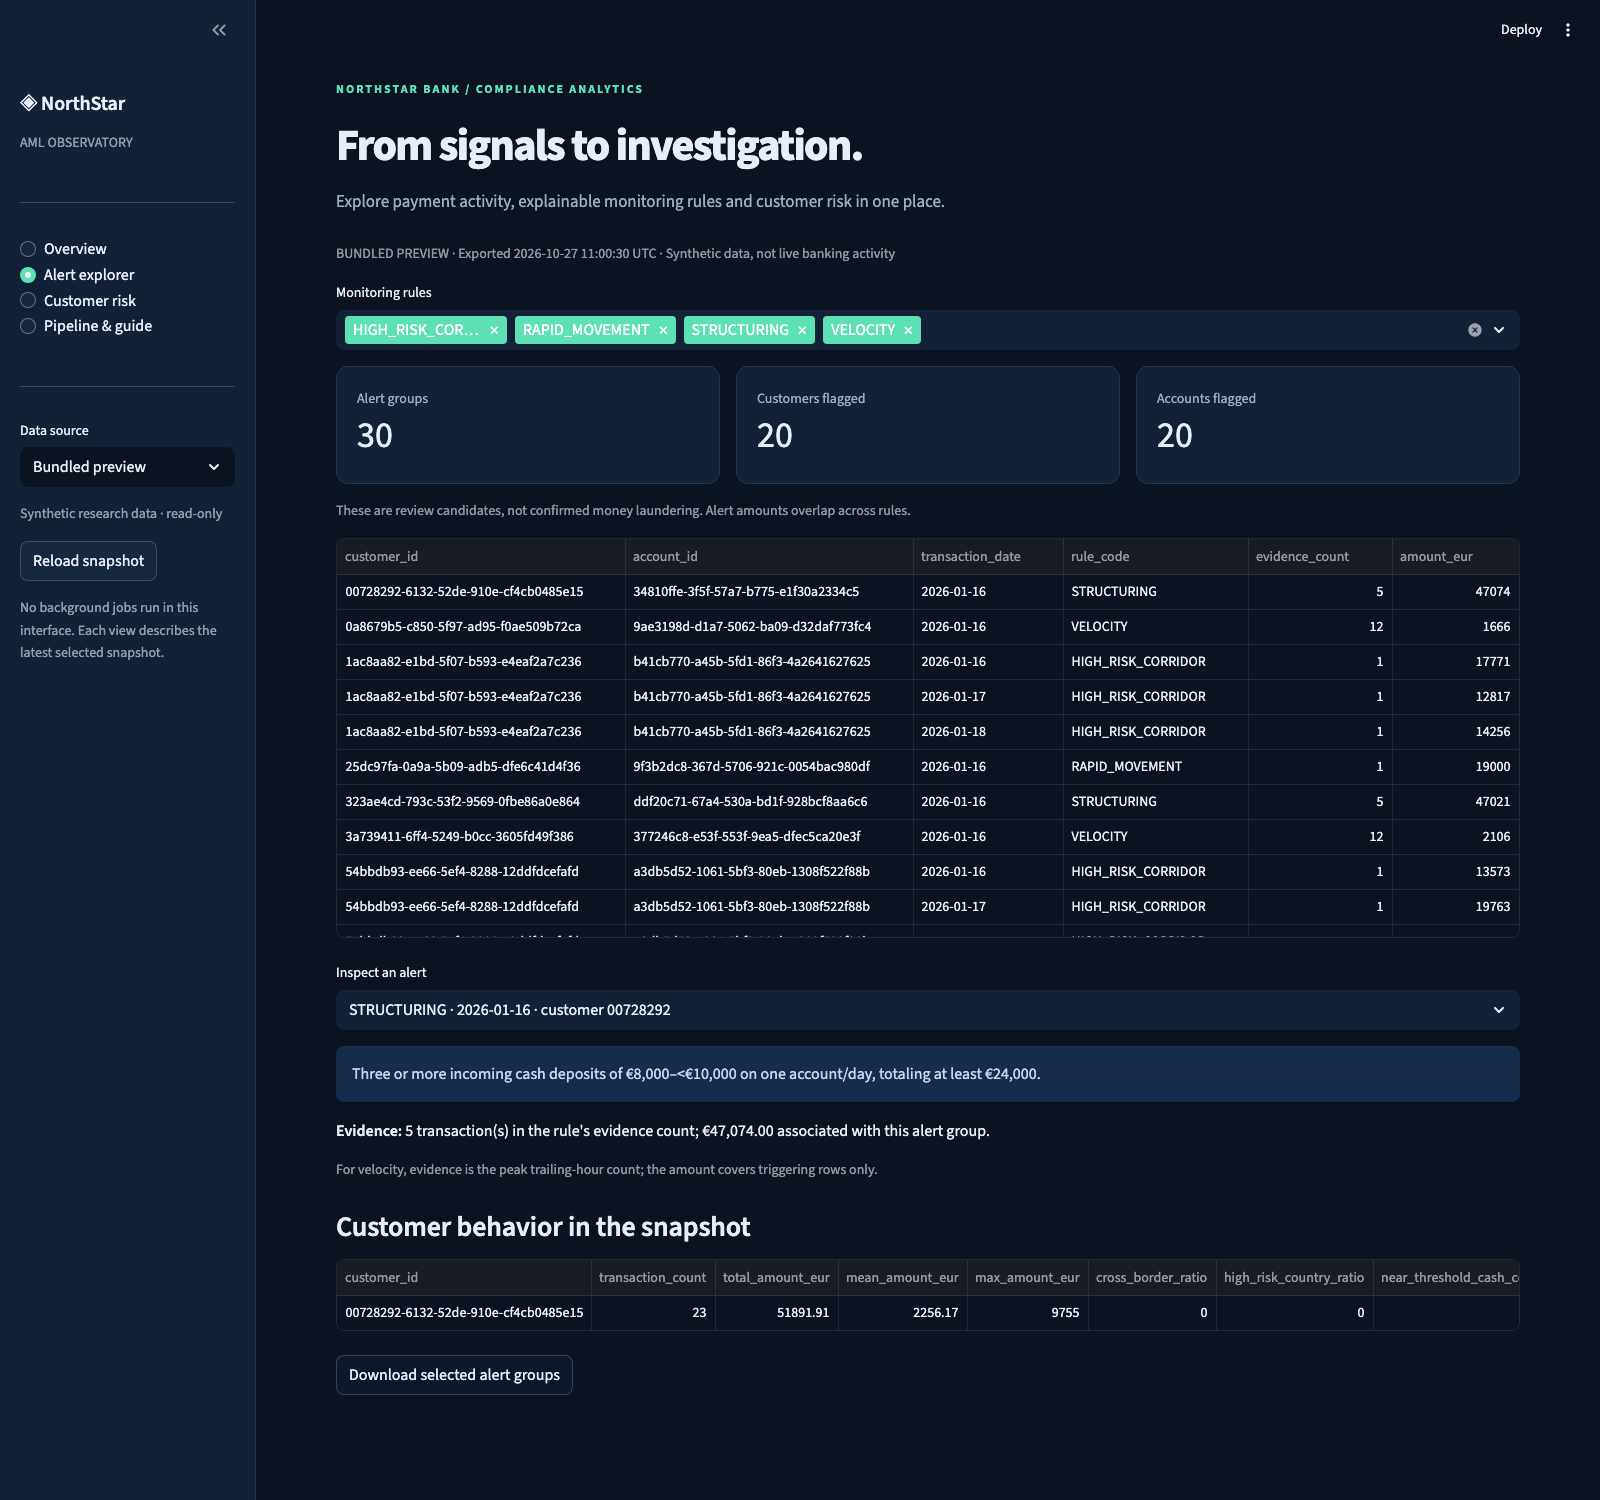
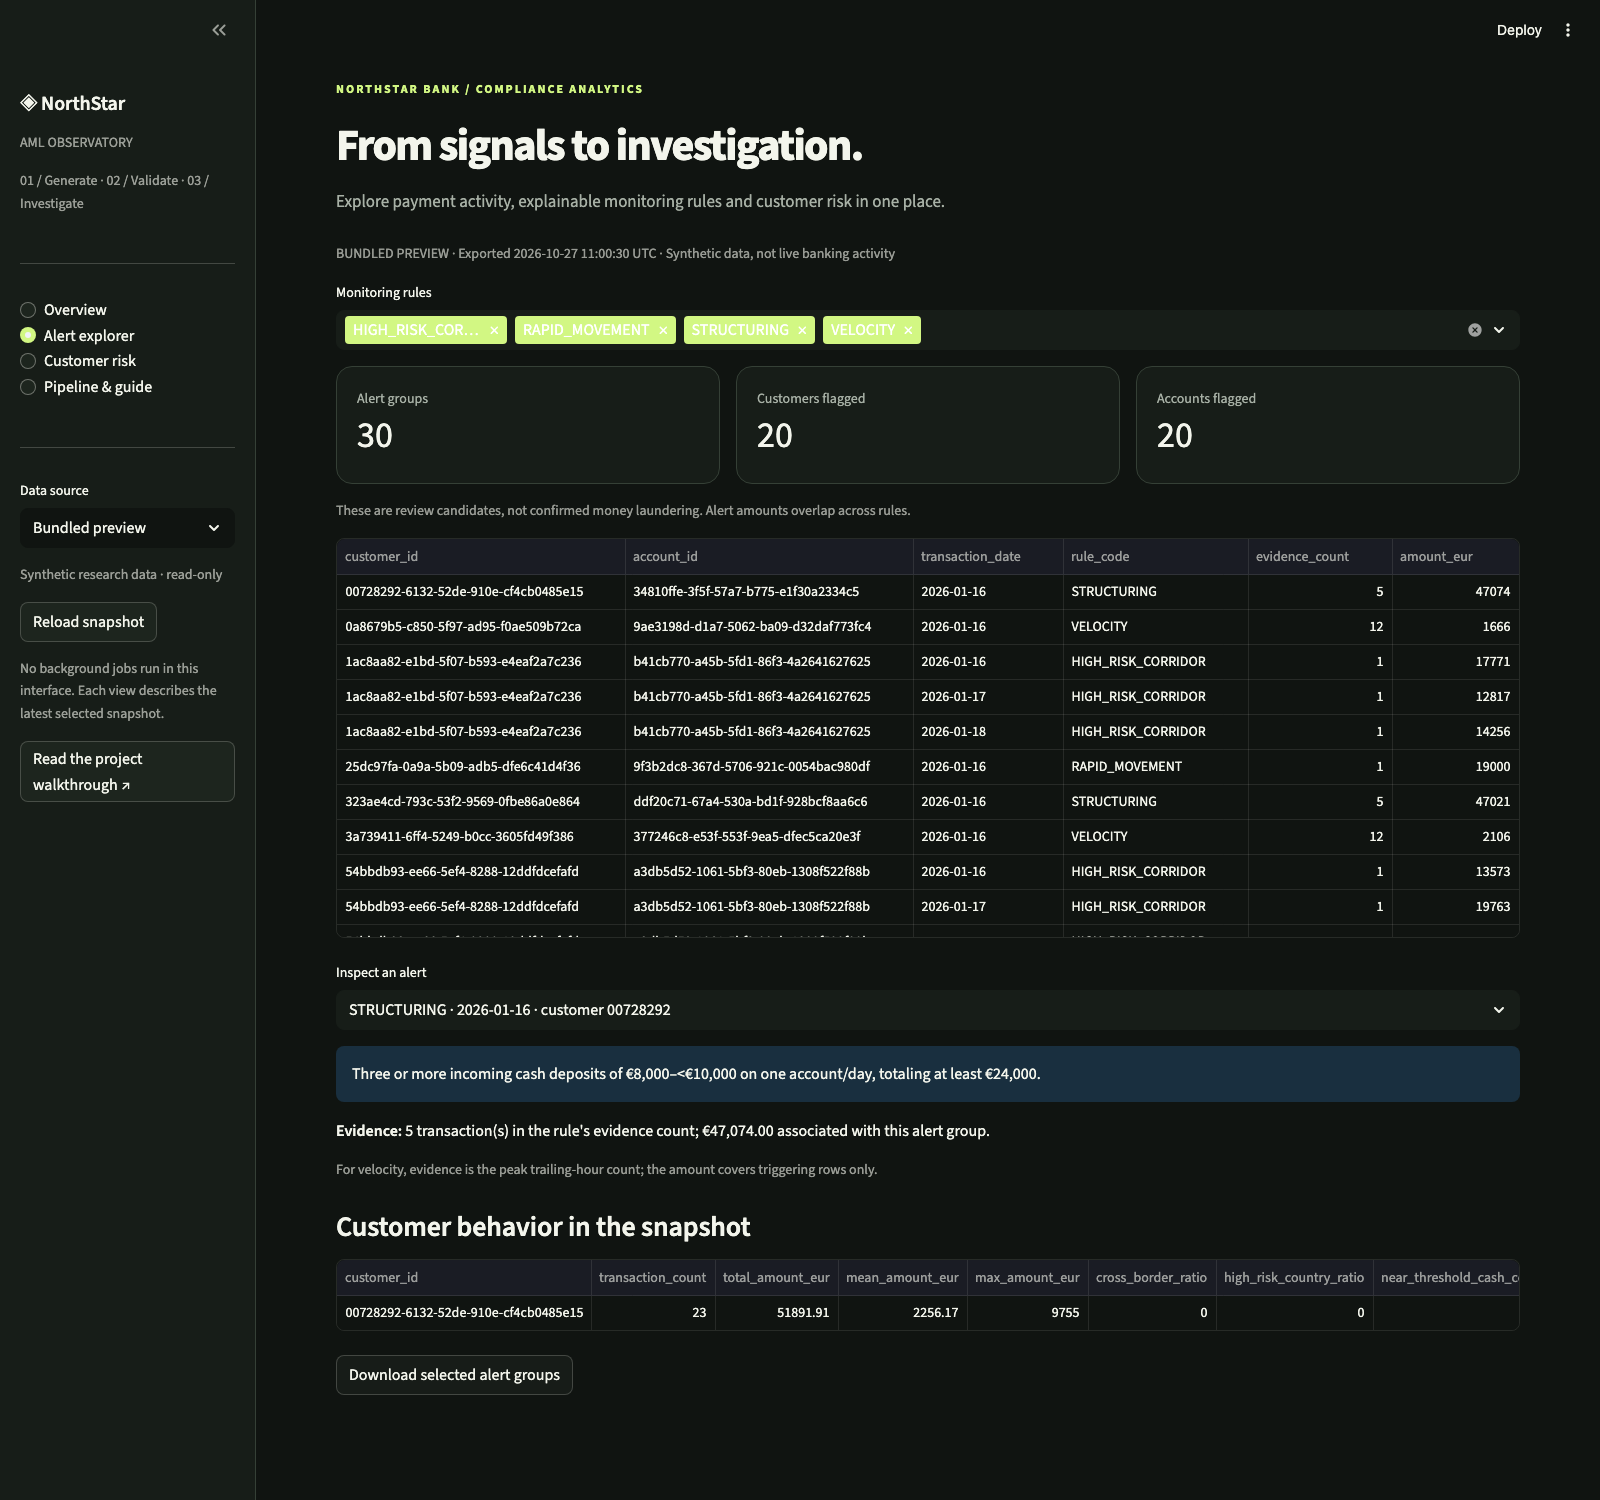
Match AML observatory to portfolio and refresh verified screenshots

diff --git a/dashboard_app.py b/dashboard_app.py
@@ -7,20 +7,24 @@ from aml.dashboard_data import EXPORT, activity_metrics, filter_activity, load_s
 
 st.set_page_config(page_title='NorthStar | AML Observatory', page_icon='◈', layout='wide')
 st.markdown('''<style>
+html, body, [data-testid="stApp"] {font-family:Inter,-apple-system,BlinkMacSystemFont,"Segoe UI",sans-serif}
 .block-container {padding-top:4rem;max-width:1440px}
-[data-testid="stMetric"] {background:#132136;border:1px solid #26364d;padding:20px;border-radius:12px}
-[data-testid="stMetricLabel"] {color:#9eafc4;font-size:13px}
+[data-testid="stMetric"] {background:#171d18;border:1px solid #354036;padding:20px;border-radius:16px}
+[data-testid="stMetricLabel"] {color:#a7b0a5;font-size:13px}
 h1 {letter-spacing:-1.6px;font-weight:750!important}
 h3 {letter-spacing:-.4px}
-.eyebrow {color:#5ee0b5;font-size:12px;letter-spacing:2px;font-weight:700}
-.hero-copy {color:#9eafc4;font-size:17px;max-width:840px;margin-bottom:28px}
-[data-testid="stSidebar"] {border-right:1px solid #26364d}
-[data-testid="stAlert"] p {color:#c2d7ef}
+button:focus-visible, a:focus-visible {outline:3px solid #d2f783!important;outline-offset:4px}
+@media(max-width:640px) {h1 {font-size:2rem!important;letter-spacing:-1px}.block-container {padding-left:1rem;padding-right:1rem}}
+.eyebrow {color:#d2f783;font-size:12px;letter-spacing:2px;font-weight:700}
+.hero-copy {color:#a7b0a5;font-size:17px;max-width:840px;margin-bottom:28px}
+[data-testid="stSidebar"] {border-right:1px solid #354036}
+[data-testid="stAlert"] p {color:#f3f5ec}
 </style>''', unsafe_allow_html=True)
 
 with st.sidebar:
     st.markdown('## ◈ NorthStar')
     st.caption('AML OBSERVATORY')
+    st.caption('01 / Generate · 02 / Validate · 03 / Investigate')
     st.divider()
     page = st.radio('Explore', ['Overview', 'Alert explorer', 'Customer risk', 'Pipeline & guide'], label_visibility='collapsed')
     st.divider()
@@ -28,6 +32,7 @@ with st.sidebar:
     st.caption('Synthetic research data · read-only')
     st.button('Reload snapshot', help='Rereads files; it does not run the pipeline or connect to a database.')
     st.caption('No background jobs run in this interface. Each view describes the latest selected snapshot.')
+    st.link_button('Read the project walkthrough ↗', 'https://nitinsinghdm.github.io/aml.html')
 
 try:
     snapshot = load_snapshot(mode)
@@ -45,11 +50,11 @@ st.title({'Overview':'Follow the money. Understand the signals.', 'Alert explore
 st.markdown('<div class="hero-copy">Explore payment activity, explainable monitoring rules and customer risk in one place.</div>', unsafe_allow_html=True)
 st.caption(f"{mode.upper()}  ·  Exported {snapshot['manifest']['exported_at'][:19].replace('T', ' ')} UTC  ·  Synthetic data, not live banking activity")
 
-COLORS = ['#5ee0b5','#6ba5ff','#f7c66b','#e58da9']
+COLORS = ['#d2f783','#6ba5ff','#f7c66b','#e58da9']
 
 def chart(fig):
     fig.update_layout(template='plotly_dark', paper_bgcolor='rgba(0,0,0,0)', plot_bgcolor='rgba(0,0,0,0)',
-        font=dict(color='#b5c5d8'), margin=dict(l=12,r=12,t=16,b=12), height=300,
+        font=dict(color='#a7b0a5'), margin=dict(l=12,r=12,t=16,b=12), height=300,
         legend_title_text='', xaxis_title=None, yaxis_title=None)
     st.plotly_chart(fig, use_container_width=True, config={'displayModeBar':False})
 

diff --git a/scripts/capture_dashboard.py b/scripts/capture_dashboard.py
@@ -1,12 +1,13 @@
 """Capture the real localhost dashboard. Start Streamlit before running this script."""
 from pathlib import Path
+import os
 from playwright.sync_api import sync_playwright
 
 root = Path(__file__).resolve().parents[1]
 with sync_playwright() as p:
     browser = p.chromium.launch()
     page = browser.new_page(viewport={'width':1600,'height':1500},device_scale_factor=1)
-    page.goto('http://127.0.0.1:8501',wait_until='networkidle')
+    page.goto(os.environ.get('AML_DASHBOARD_URL', 'http://127.0.0.1:8501'),wait_until='networkidle')
     page.get_by_role('heading',name='Follow the money. Understand the signals.').wait_for()
     page.locator('.js-plotly-plot').last.wait_for()
     page.evaluate('document.fonts.ready')

diff --git a/docs/operations/VERIFICATION.md b/docs/operations/VERIFICATION.md
@@ -30,3 +30,7 @@ The test suite covers safe bootstrap replay, generator determinism, exact record
 - Chromium browser verification exercised the running Overview, Alert explorer and Pipeline & guide pages. README PNGs are actual captures of the bundled synthetic preview.
 - The exporter now includes four recorded ingestion batches and eight SQL audit results in the saved demo snapshot. The approximately 65 KB preview contains summary rows only.
 - No cloud deployment, live bank feed, background job scheduler or hosted dashboard is claimed. The local interface reads bundled data or the latest exported files.
+
+### Portfolio visual finish — 27 October 2026
+
+Updated the dashboard palette and README screenshots to match the author's portfolio. The complete PostgreSQL 18 / Java 17 suite passed again: **38 passed in 29.06s**. Chromium captured the rendered Overview and Alert explorer and checked the guide page. No live Snowflake or Looker Studio validation was performed. The portfolio case study links to the runnable local interface and its setup instructions.

diff --git a/README.md b/README.md
@@ -13,7 +13,7 @@ An end-to-end synthetic banking analytics project: generate payments, validate r
 
 ## 📊 Interactive dashboard
 
-The **NorthStar AML Observatory** makes the pipeline visible. Explore activity, inspect alert evidence, compare customer scores, and trace the data through each processing stage.
+The **NorthStar AML Observatory** makes the pipeline visible, with a forest-green and lime interface inspired by [my portfolio](https://nitinsinghdm.github.io/aml.html). Explore activity, inspect alert evidence, compare customer scores, and trace the data through each processing stage.
 
 ![NorthStar AML dashboard showing payment activity, destination countries and monitoring signals](images/dashboard-overview.png)
 

diff --git a/docs/operations/INTERFACE.md b/docs/operations/INTERFACE.md
@@ -42,3 +42,7 @@ python scripts/capture_dashboard.py
 ```
 
 The screenshot script saves the Overview and Alert explorer pages to `images/`. `images/pipeline.svg` is an editable diagram. UI tests use Streamlit AppTest; browser captures additionally check the rendered appearance.
+
+## Portfolio visual language
+
+The interface uses the portfolio’s forest background (`#101411`), raised green surfaces (`#171d18`), lime accents (`#d2f783`), and rounded metric cards. Navigation retains native keyboard controls and a visible focus outline. The sidebar links to the public project walkthrough; no dataset is sent to the portfolio.
